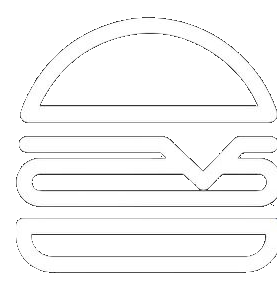
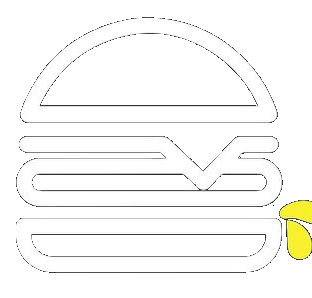
Brand: burger PNG with mayo drips; Rubik 900 wordmark with black+yellow outline effect
- Re-extract mayo-burger.png with wider crop to include yellow drips at bottom right
- Font: swap Luckiest Guy → Rubik 900 (rounded-corner Black weight matching logo)
- Wordmark effect: black letter body + yellow halo + black outer border via text-shadow layers

https://claude.ai/code/session_0189t3JwSAomjfaNwKAHw8xj

diff --git a/styles/mayo.css b/styles/mayo.css
@@ -19,7 +19,7 @@
 
   --font-display: 'Bungee', 'Anton', system-ui, sans-serif;
   --font-shadow: 'Bungee Shade', 'Bungee', system-ui, sans-serif;
-  --font-wordmark: 'Luckiest Guy', 'Bungee', system-ui, sans-serif;
+  --font-wordmark: 'Rubik', 'Bungee', system-ui, sans-serif;
   --font-body: 'Archivo', 'Inter', system-ui, sans-serif;
   --font-marker: 'Permanent Marker', cursive;
   --font-mono: 'Space Mono', ui-monospace, monospace;
@@ -71,12 +71,22 @@ img { display: block; max-width: 100%; }
 }
 .nav-burger-icon { width: 36px; height: 36px; object-fit: contain; }
 
-/* ===== MAYO WORDMARK — Luckiest Guy, yellow fill, black stroke ===== */
+/* ===== MAYO WORDMARK — Rubik 900, nero + alone giallo + bordo nero ===== */
 .mayo-wordmark {
   font-family: var(--font-wordmark);
-  color: var(--yellow);
-  -webkit-text-stroke: 2px #000;
-  paint-order: stroke fill;
+  font-weight: 900;
+  color: #000;
+  /* alone giallo (layer 1) + bordo nero esterno (layer 2) */
+  text-shadow:
+    0 0 0 #000,
+    -4px -4px 0 var(--yellow),  4px -4px 0 var(--yellow),
+    -4px  4px 0 var(--yellow),  4px  4px 0 var(--yellow),
+    -5px  0   0 var(--yellow),   5px  0   0 var(--yellow),
+     0   -5px 0 var(--yellow),   0    5px 0 var(--yellow),
+    -6px -6px 0 #000,  6px -6px 0 #000,
+    -6px  6px 0 #000,  6px  6px 0 #000,
+    -7px  0   0 #000,  7px  0   0 #000,
+     0   -7px 0 #000,  0    7px 0 #000;
   letter-spacing: 0.02em;
 }
 .nav-tag {
@@ -836,8 +846,16 @@ img { display: block; max-width: 100%; }
   font-size: 64px;
   line-height: 1;
   margin-bottom: 16px;
-  -webkit-text-stroke: 5px #000;
-  paint-order: stroke fill;
+  /* override text-shadow con valori più grandi per 64px */
+  text-shadow:
+    -8px -8px 0 var(--yellow),  8px -8px 0 var(--yellow),
+    -8px  8px 0 var(--yellow),  8px  8px 0 var(--yellow),
+    -10px 0   0 var(--yellow), 10px  0   0 var(--yellow),
+     0  -10px 0 var(--yellow),  0   10px 0 var(--yellow),
+    -12px -12px 0 #000, 12px -12px 0 #000,
+    -12px  12px 0 #000, 12px  12px 0 #000,
+    -14px  0    0 #000, 14px  0    0 #000,
+     0    -14px 0 #000,  0   14px  0 #000;
 }
 .footer-tag {
   font-family: var(--font-marker);

diff --git a/app/layout.tsx b/app/layout.tsx
@@ -30,7 +30,7 @@ export default function RootLayout({ children }: { children: React.ReactNode }) 
         <link rel="preconnect" href="https://fonts.googleapis.com" />
         <link rel="preconnect" href="https://fonts.gstatic.com" crossOrigin="" />
         <link
-          href="https://fonts.googleapis.com/css2?family=Bungee&family=Bungee+Shade&family=Luckiest+Guy&family=Archivo:ital,wght@0,400;0,700;1,400&family=Permanent+Marker&family=Space+Mono:wght@400;700&family=Anton&display=swap"
+          href="https://fonts.googleapis.com/css2?family=Bungee&family=Bungee+Shade&family=Rubik:wght@900&family=Archivo:ital,wght@0,400;0,700;1,400&family=Permanent+Marker&family=Space+Mono:wght@400;700&family=Anton&display=swap"
           rel="stylesheet"
         />
       </head>
